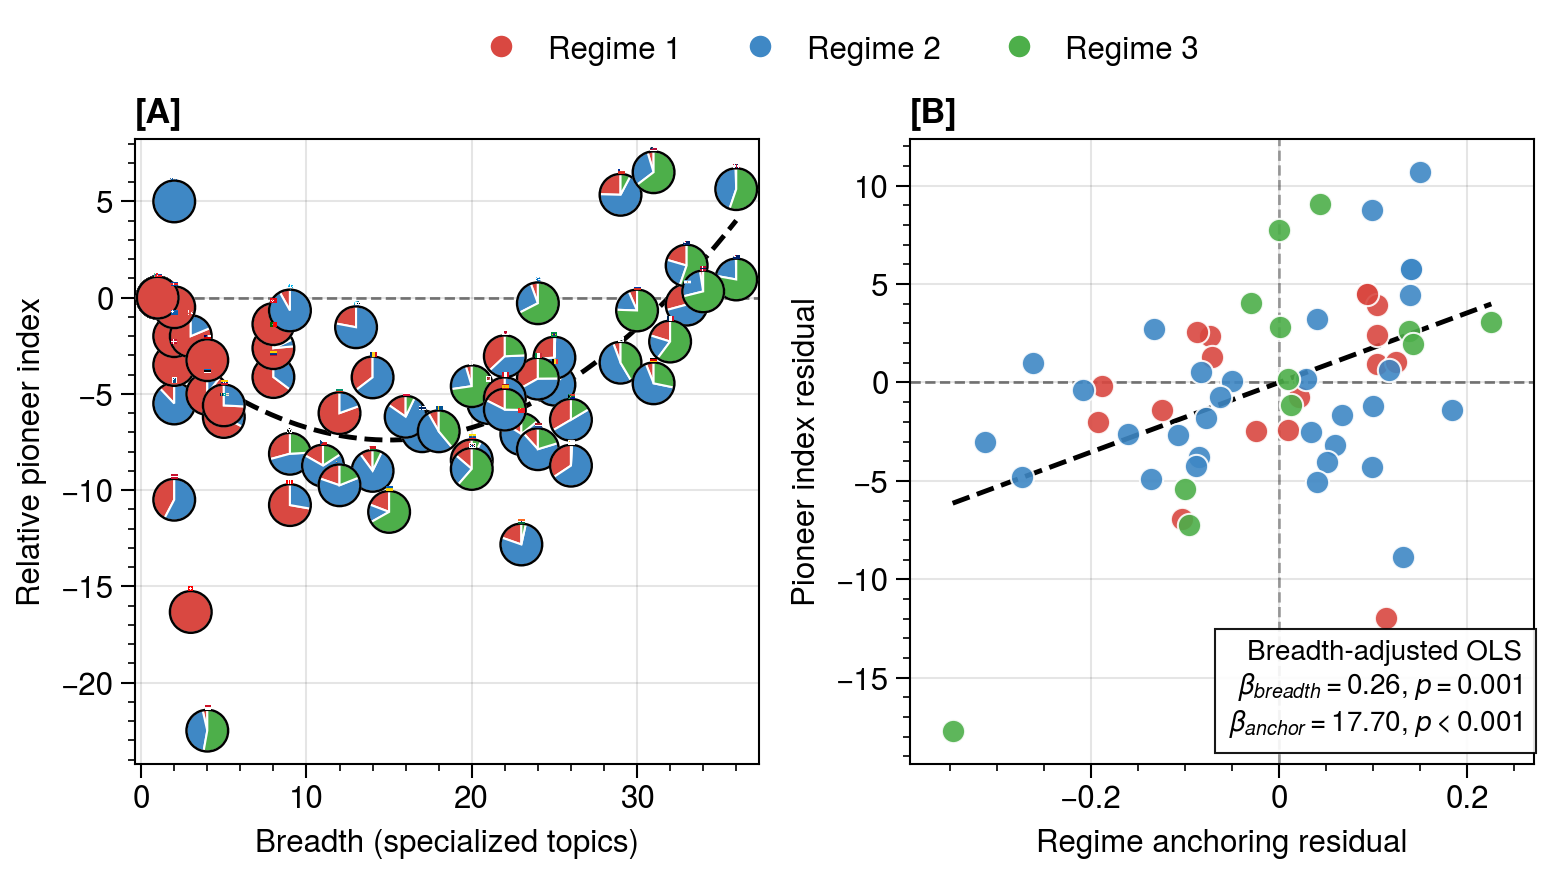
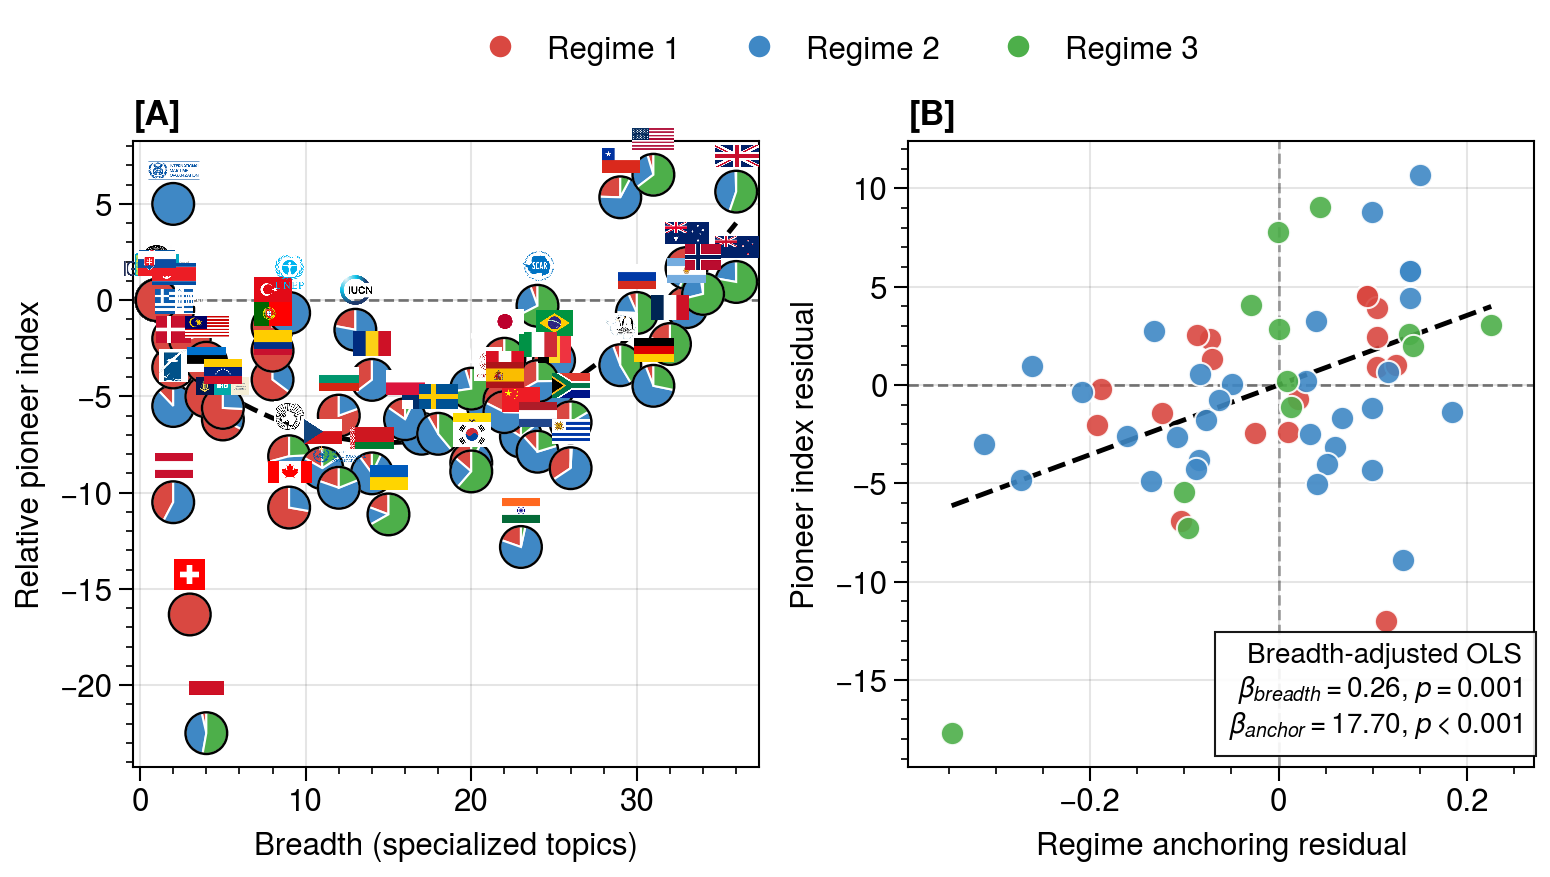
Tighten regime results and add appendix figures

diff --git a/theSpaceOfConcerns.tex b/theSpaceOfConcerns.tex
@@ -43,12 +43,12 @@
   }
 }
 \newcommand{\significancetext}{%
-Consensus can make governance look uniform even when actor strategies diverge. Across six decades of Antarctic Treaty submissions, we recover a shared space of concerns that reveals three recurring engagement regimes and shows that actors expand locally from anchored portfolio positions rather than governing uniformly. A simple sequential model reproduces these sparse, path-dependent portfolio dynamics, making hidden strategic pressure visible inside a formally unanimous institution. The result is a concrete way to study how consensus systems absorb conflict before it becomes explicit.
+Consensus can make governance look uniform even when actors occupy distinct positions beneath unanimous outcomes. Across six decades of Antarctic Treaty submissions, we recover three recurring engagement regimes, show that actors usually bridge adjacent rather than distant regions, and find that agenda growth is local and path dependent. The ATS therefore appears not as a homogeneous forum or a clean division-of-labor system, but as a shared arena with structured positions and selective complementarity. This makes hidden strategic pressure visible inside a formally unanimous institution.
 }
 
 \begin{document}
 \begin{abstract}
-    Consensus institutions can hide strategic differentiation because formal unanimity obscures disagreement in official outcomes. Using six decades of Antarctic Treaty submissions, we infer actor-level activity fingerprints from revealed topic priorities and build a ``space of concerns'' in which institution-defined topics are linked when actors recurrently co-specialize in them. The resulting topology organizes actors into three recurring engagement regimes. Portfolio change is local and path dependent: adoption odds decline with concern-space distance, regime shifts are mostly within or adjacent, and early agenda entry is associated with both broader portfolios and stronger anchoring within one regime rather than with membership in any single regime. A simple retain-and-enter mechanism, conditioned on the observed active actors, budgets, and pooled concern space, closely reproduces mean breadth, topic popularity, and local entry patterns. The space of concerns thus provides a behavioral map of how consensus governance organizes and absorbs strategic pressure.
+    Consensus institutions can hide strategic differentiation because formal unanimity obscures disagreement in official outcomes. Using six decades of Antarctic Treaty submissions, we infer actor-level activity fingerprints from revealed topic priorities and build a ``space of concerns'' in which institution-defined topics are linked when actors recurrently co-specialize in them. The resulting topology supports a minimum adequate three-regime summary. Actors frequently span adjacent regimes but effectively never bridge the two extremes directly without passing through the middle. Portfolio change is local and path dependent: adoption odds decline with concern-space distance, regime shifts are mostly within or adjacent, and early agenda entry is associated with both broader portfolios and stronger anchoring within one regime rather than with membership in any single regime. Among strongly anchored actors, some regime combinations---especially across the Regime 1--3 boundary---are more complementary than redundant, even though the system retains a substantial shared core. A simple retain-and-enter mechanism, conditioned on the observed active actors, budgets, and pooled concern space, closely reproduces mean breadth, topic popularity, and local entry patterns. The ATS therefore appears neither uniformly governed nor cleanly partitioned, but as a shared arena with structured positions, local movement, and selective complementarity.
 \end{abstract}
 
 \begin{strip}
@@ -105,15 +105,17 @@ Bridge topics structure movement between core and periphery. Inspections functio
 
 
 \subsection{Modes of Engagement and Actor Strategies}
-The Space of Concerns reveals how members allocate attention across issues and how they position themselves in ATS governance. As shown in \cref{fig:portfolio_space_ridgelines}, attention is uneven: countries concentrate in distinct parts of the issue space, and those clusters define three broad engagement regimes. Importantly, the 1D MDS axis is an embedding for visualization rather than a uniform metric ruler: local neighborhood structure is preserved approximately, but dense portions of the network appear compressed while sparse portions are expanded.
+The Space of Concerns reveals how members allocate attention across issues and how they position themselves in ATS governance. As shown in \cref{fig:portfolio_space_ridgelines}, attention is uneven: countries concentrate in distinct parts of the issue space, and those clusters define three broad engagement regimes. We treat three regimes as the minimum adequate summary of the ordered concern space rather than as an arbitrary clustering choice (Appendix \cref{fig:regime-k-validation}). Importantly, the 1D MDS axis is an embedding for visualization rather than a uniform metric ruler: local neighborhood structure is preserved approximately, but dense portions of the network appear compressed while sparse portions are expanded.
 
-Taken together, the regimes form a gradient rather than isolated silos. Regime 1 (institutional coordination and information exchange) emphasizes opening statements, science and education, information exchange, and ATS reporting and operational topics. Regime 2 (compliance and environmental management) centers on environmental protection, EIA, liability, waste and pollution, legal-institutional matters, inspections, and protected-area governance. Regime 3 (frontier impacts, resources, and strategic planning) concentrates on drilling, mineral resources, tourism pressure, SAER/environmental domains, marine acoustics, sub-glacial lakes, CEP strategy, and multiyear planning, where scientific capability, environmental risk, and long-horizon positioning intersect.
+Taken together, the regimes form a gradient rather than isolated silos. Regime 1 (institutional coordination and information exchange) emphasizes opening statements, science and education, information exchange, and ATS reporting and operational topics. Regime 2 (compliance and environmental management) centers on environmental protection, EIA, liability, waste and pollution, legal-institutional matters, inspections, and protected-area governance. Regime 3 (frontier impacts, resources, and strategic planning) concentrates on drilling, mineral resources, tourism pressure, SAER/environmental domains, marine acoustics, sub-glacial lakes, CEP strategy, and multiyear planning, where scientific capability, environmental risk, and long-horizon positioning intersect. The full topic-to-regime assignment is reported in Appendix Table~\ref{tab:regime_topics_full}.
 
 These regimes capture dominant orientations, not fixed blocs. Members most strongly aligned with Regime 1 include Switzerland, Malaysia, Estonia, and Bulgaria; with Regime 2, UNEP, COMNAP, Belarus, and IUCN; and with Regime 3, the Russian Federation, the United States, New Zealand, and Australia (Appendix Table~\ref{tab:regime_alignment_full}). Some countries remain tightly concentrated in one region, while others maintain mixed portfolios across neighboring regions, separating structural position from strategic flexibility as agendas shift.
 
 Australia illustrates this distinction: although its portfolio spans all three regions, its center of gravity remains in Regime 3 (share $=0.553$), indicating a diversified but not genuinely between-regime position (Appendix Table~\ref{tab:regime_alignment_full}).
 
-Supplementary co-sponsorship and competition views are consistent with this regime picture. Actor communities concentrate unevenly across the same concern regions, and topic-level concentration remains stable even as participation expands, indicating layered rather than homogenizing growth in agenda engagement (Appendix \cref{fig:actors_on_space,fig:competition-appendix}).
+A fuzzy-threshold view confirms that these are adjacent occupancy zones rather than rigid classes: actors commonly span Regime 1+2 or Regime 2+3, only one actor spans all three regions at the chosen threshold, and no actor spans Regime 1+3 without also passing through Regime 2 (Appendix \cref{fig:fuzzy-regime-classes}). The regimes are also historically ordered in the archive itself. Regime 1 actors are later and shorter-tenure on average, Regime 2 actors are intermediate, and Regime 3 actors are the earliest and longest-running participants (Appendix \cref{fig:regime-tenure}).
+
+These positions overlap with, but are not reducible to, collaboration or broad geopolitical grouping. Co-sponsorship communities concentrate unevenly across the same concern regions, and country pairs that co-submit more often also show greater portfolio overlap, but simple geodesic proximity does not recover the same structure and EU/NATO pairings are not unusually similar; BRICS alignment is positive but small-sample and therefore exploratory (Appendix \cref{fig:actors_on_space,fig:portfolio-share-collaboration,fig:geo-portfolio-overlap,fig:bloc-overlap}). At the same time, the regime structure is not only redundant. Among strongly anchored actors, hard Regime 1--3 pairs cover more distinct topics and show less internal overlap than size-matched baselines, and this pattern survives a fuzzy-class check in which adjacent bridge actors are separated out: pure 1--3 and 1+2--3 pairings remain the clearest complementary combinations, whereas 2--2 and 1+2--2 pairings are more redundant (Appendix \cref{fig:fuzzy-pair-coverage,fig:regime-pair-institutional}).
 
 \subsection{Growth of Interest Portfolios is not Random Drift but Local Movement in the Concern Space}
 The regime map above is descriptive; the hazard model tests whether movement through this space is structured. We find a strong locality gradient: in the pooled specification, adoption odds fall as concern-space distance increases ($\beta_{\mathrm{distance}}=-0.652$, odds ratio $=0.52$). The empirical adoption curve in \cref{fig:hazard-distance-timeseries} shows the same pattern nonparametrically, with adoption declining from 8.43\% in the nearest distance quartile to 0.79\% in the farthest quartile. The distance effect remains negative under alternative space constructions (instantaneous: $-0.539$; cumulative-lagged: $-0.533$; Appendix \cref{fig:hazard-space-sensitivity}). Consistent with this locality, dominant-regime assignments are highly persistent in rolling 5-year windows: 82.0\% of member transitions remain in the same regime, 99.0\% remain in the same or an adjacent regime, and direct Regime 1$\leftrightarrow$Regime 3 jumps are rare (1.0\%). A direct 1-year versus 5-year comparison (Appendix \cref{fig:regime-window-sensitivity}) shows the expected smoothing: same-regime persistence rises from 58.6\% to 82.0\%, while direct Regime 1$\leftrightarrow$Regime 3 jumps fall from 2.7\% to 1.0\%. Together, these results support interpreting engagement modes as path-dependent orientations rather than static labels, because actors tend to extend portfolios into nearby concerns rather than making long-range jumps.
@@ -139,7 +141,7 @@ The hazard results establish local movement, but they do not show whether that m
 
 
 \subsubsection{Agenda Pioneering Reflects Breadth and Regime Anchoring}
-Early agenda entry is not concentrated in one dominant regime. Actors from all three regimes appear among the pioneers, but earlier movers tend to combine broader portfolios with stronger concentration within one regime rather than evenly mixed portfolios. A simple OLS using the relative pioneer index as the outcome shows that breadth and max regime share are both positive predictors of earlier entry ($\beta_{\mathrm{breadth}}=0.26$, $p=0.001$; $\beta_{\mathrm{anchor}}=17.70$, $p<0.001$), while dominant-regime indicators are not distinguishable from zero. This pattern is stable to alternative cumulative-volume thresholds for defining topic emergence (Appendix \cref{fig:emergence-threshold-sensitivity}). Pioneering therefore appears less as membership in one privileged bloc than as regime-positioned timing from a clear portfolio base.
+Early agenda entry is not concentrated in one dominant regime. As shown in \cref{fig:pioneer_plot}, actors from all three regimes appear among the pioneers, but earlier movers tend to combine broader portfolios with stronger concentration within one regime rather than evenly mixed portfolios. A simple OLS using the relative pioneer index as the outcome shows that breadth and max regime share are both positive predictors of earlier entry ($\beta_{\mathrm{breadth}}=0.26$, $p=0.001$; $\beta_{\mathrm{anchor}}=17.70$, $p<0.001$), while dominant-regime indicators are not distinguishable from zero. This pattern is stable to alternative cumulative-volume thresholds for defining topic emergence (Appendix \cref{fig:emergence-threshold-sensitivity}). Pioneering therefore appears less as membership in one privileged bloc than as regime-positioned timing from a clear portfolio base.
 
 \begin{figure*}[!htbp]
     \centering \includegraphics[width = \textwidth]{./figures/fig05_pioneer_regime_position.pdf}
@@ -154,7 +156,11 @@ This contribution complements, rather than replaces, existing social-science app
 
 Substantively, the ATS appears as a structured concern space organized around a dense procedural--environmental hub, with more specialized but still connected regions around extraction and science, tourism and visitation, and coordination. This topology does not imply a detached extraction arena; rather, it is consistent with an institutional setting in which historically contentious issues, especially resource extraction, are tightly constrained and therefore remain embedded in adjacent procedural, scientific, and environmental pathways. That reading is consistent with current scholarship on dual-use pressures in Antarctica and the persistence of geopolitical tension under a formally cooperative regime \cite{Brady2017,DoddsBoulegue2023,Aus2025,Szpak2025}.
 
-The temporal results strengthen this interpretation. New attention does not diffuse randomly; it tends to move locally in the concern space, and actor trajectories cluster into a small number of recurrent engagement regimes. This indicates structured adaptation rather than drift. In practical terms, change in the ATS is more likely to appear as recombination of adjacent concerns than as abrupt displacement to distant issues. The regime diagnostics do not imply hard blocs, but they do support a stable and policy-interpretable three-regime summary for the present data. The mechanism check reported in the Results is consistent with this reading: ATS portfolios are better described by selective persistence and local expansion within a shared issue arena than by smooth diffusion across the full topology.
+The temporal results strengthen this interpretation. New attention does not diffuse randomly; it tends to move locally in the concern space, and actor trajectories cluster into a small number of recurrent engagement regimes. This indicates structured adaptation rather than drift. In practical terms, change in the ATS is more likely to appear as recombination of adjacent concerns than as abrupt displacement to distant issues. The regime diagnostics do not imply hard blocs, but they do support a stable and policy-interpretable three-regime summary for the present data. The fuzzy occupancy check sharpens this point: actors frequently bridge adjacent regimes, but effectively never span Regime 1 and Regime 3 directly without also occupying Regime 2. The mechanism check reported in the Results is consistent with this reading: ATS portfolios are better described by selective persistence and local expansion within a shared issue arena than by smooth diffusion across the full topology.
+
+The same regime geometry also clarifies what this paper does and does not mean by division of labor. The ATS does not look like a fully partitioned system in which actors simply split the agenda into non-overlapping domains. The shared procedural--environmental core remains substantial. But neither is the system merely redundant. Once actors are conditioned on strong regime anchoring, some pairings become more complementary than others. In particular, the clearest complementarity appears across the Regime 1--3 boundary: those pairs cover more distinct topics and overlap less than expected, and the effect survives a fuzzy-class sensitivity check that separates pure anchors from adjacent bridge actors. The accompanying institutional profile indicates that these complementary pairs are more often mixed CP/NCP, gateway-linked, and claimant-linked than expected, but the claimant enrichment should be read together with tenure: the effect is largely carried by long-established Regime 3 anchors rather than by claimant status alone (Appendix \cref{fig:fuzzy-pair-coverage,fig:regime-pair-institutional,fig:regime-tenure}). This is therefore better understood as selective complementarity inside a shared arena than as a global division-of-labor equilibrium.
+
+At the same time, the retain-and-enter model should be read at the level it was designed to address. It captures average breadth, average topic popularity, local entry, and period-to-period stability better than it captures the exact realized actor-topic support in any one period. That limitation is substantively useful rather than merely technical. It suggests that this paper identifies the broad geometry of ATS attention and the main local growth rules, but not yet the finer-grained forces that determine why actors occupying the same formal consensus regime still choose different issue bundles and timings. That residual variation is the natural entry point for a next step on \emph{apparent consensus}: explaining how formally unanimous outcomes can coexist with persistent strategic differentiation inside a shared concern space.
 
 These findings also sharpen how consensus stability should be interpreted. Relative institutional stability does not imply absence of strategic pressure; it can reflect effective filtering of disagreement into recurrent issue pathways with stable boundary zones \cite{CCAMLRConsensus2022,Gardiner2025}. Influence in such systems is therefore expressed through portfolio positioning and timing of entry into gateway concerns, not only through activity volume or economic size.
 
@@ -215,6 +221,29 @@ Colombia & 0.647 & Chile & 0.677 & Monaco\textsuperscript{\dag} & 0.528 \\
 \end{tabular}
 \end{table*}
 
+\begin{table*}[!htbp]
+\centering
+\scriptsize
+\caption{\textbf{Topic assignments for the three concern-space regimes.} Topics are listed in their 1D concern-space order and assigned to the regime defined by the nearest weighted center of aggregate excess engagement, after smoothing the aggregate $(\rho-1)_+$ signal across the ordered space.}
+\label{tab:regime_topics_full}
+\begin{tabular}{p{0.31\textwidth} p{0.33\textwidth} p{0.31\textwidth}}
+\hline
+\textbf{Regime 1: institutional coordination and information exchange} & \textbf{Regime 2: compliance and environmental management} & \textbf{Regime 3: frontier impacts, resources, and strategic planning} \\
+\hline
+Educational issues; Science issues; Opening statements; Exchange of Information; Operation of the Antarctic Treaty system -- The Secretariat; Operation of the Antarctic Treaty system -- General; Environmental Monitoring and Reporting; Operation of the Antarctic Treaty system -- Reports; Operational issues. &
+Safety and Operations in Antarctica; Environmental Impact Assessment -- Other EIA Matters; Environmental Protection -- General; Biological Prospecting; Comprehensive Environmental Evaluations; International Polar Year; Fauna and Flora -- General; Cooperation with Other Organisations; Management Plans; Inspections; Liability; Nonnative Species and Quarantine; Waste management and disposal; Climate Change; Prevention of marine pollution; Institutional and legal matters; Marine Protected Areas; Emergency report and contingency planning; Repair and remediation of environmental damage; Historic Sites and Monuments; Area Protection and Management Plans -- General. &
+Mineral resources; Human Footprint and wilderness values; CEP Strategy Discussions; Search and Rescue; Site Guidelines for Visitors; Marine living resources; Specially Protected Species; Tourism and NG Activities; Drilling; Operation of the CEP; Multiyear strategic workplan; Marine Acoustics; Sub-glacial Lakes; State of the Antarctic Environment Report (SAER); Environmental Domains Analysis. \\
+\hline
+\end{tabular}
+\end{table*}
+
+\begin{figure*}[!htbp]
+\centering
+\includegraphics[width=\textwidth]{./figures/fig21_regime_portfolio_validation.pdf}
+\caption{\textbf{Why three regimes? Portfolio-grounded validation of the concern-space partition.} (A) Weighted within-region inertia under the same snapped weighted-center partition rule used in the main analysis. The large drop from $k=2$ to $k=3$ marks the first clear elbow. (B) Portfolio-similarity preservation: for each $k$, actor portfolios are compressed to $k$ regime shares and the resulting pairwise actor-similarity matrix is compared with the full excess-specialization similarity matrix. The jump from $k=2$ to $k=3$ is large, while later gains are modest. (C) Increasing $k$ weakens regime anchoring and quickly produces very small regions. We therefore interpret $k=3$ as the minimum adequate partition: it captures the main portfolio structure while keeping the regime summary policy-interpretable.}
+\label{fig:regime-k-validation}
+\end{figure*}
+
 \section{Methods and Data}
 \subsection{Data Description and Processing}
 We analyze working papers and information documents submitted to the Antarctic Treaty System (ATS) from 1961 to 2025. The corpus was compiled from the official ATS document archive and enriched with thematic labels, submitting parties, and document types \cite{AntarcticTreatyHandbook,Yaryab2024}. Documents submitted by the ATS Secretariat were retained for completeness.
@@ -263,7 +292,7 @@ Let $x(a,i)$ denote the number of submissions by actor $a$ on topic $i$, where a
 and the system-wide importance of topic $i$ as
 
 \begin{equation}\label{eq:topic_importance}
-Z_i = \frac{\sum_c x(c,i)}{\sum_{c,j} x(c,j)}.
+Z_i = \frac{\sum_c x(c,i)}{\sum_{d,j} x(d,j)}.
 \end{equation}
 
 The Revealed Policy Advantage (RPA; an RCA-style specialization index) is then
@@ -275,7 +304,7 @@ Topics are linked by proximity
 \begin{equation}\label{eq:proximity}
 \phi(i,j)
 =
-\min\!\left\{
+\min_a\!\left\{
 \begin{aligned}
 &\Pr\!\bigl(\rho(a,i) > 1 \mid \rho(a,j) > 1\bigr),\\
 &\Pr\!\bigl(\rho(a,j) > 1 \mid \rho(a,i) > 1\bigr)
@@ -292,6 +321,32 @@ This adapts the product-space proximity logic from economic complexity to govern
 \caption{\textbf{Full ribbon view of RPA-specialized topic supports across adjacent periods.} Topics are held in fixed rows across time windows. For each adjacent period pair, a country contributes to every topic pair in which it has RPA $> 1$ at both ends, and each country's total contribution is weighted to sum to one within that period transition. Ribbon width therefore reflects aggregated country support across all specialized topic-to-topic continuities and shifts, rather than static proximity magnitude. The view complements the filtered main-text ribbon by showing the full set of RPA-qualified supports.}
 \label{fig:space-ribbon-full}
 \end{figure*}
+
+\subsection{Constructing Regimes from the Concern Space}
+The three engagement regimes in the main text are not obtained by clustering actors directly. Instead, they are defined as contiguous regions of the recovered topic space and actors are then assigned by how much of their excess portfolio mass falls into each region. This choice is deliberate: the substantive object of interest is movement and positioning \emph{within} a shared concern space, so the regimes should respect that geometry rather than grouping actors by similarity alone.
+
+We begin from the full actor-topic specialization matrix, not from an already aggregated topic profile. The aggregate proximity matrix $\phi$ in \cref{eq:proximity} is first constructed from repeated co-specialization across actors, so actor-level differences enter the regime procedure initially through the concern-space geometry itself. We then convert $\phi$ into a weighted distance graph by assigning each positive edge the length
+\begin{equation}
+    d(i,j) = -\log\!\bigl(\max\{\phi(i,j), \varepsilon\}\bigr),
+\end{equation}
+with a small $\varepsilon>0$ to avoid taking logs of zero. We then compute all-pairs shortest-path distances on this topic graph and obtain a one-dimensional coordinate for each topic by classical multidimensional scaling (MDS). The resulting axis is used only as an ordered embedding: it provides a consistent left-to-right representation of the concern space, but it is not interpreted as a literal Euclidean policy spectrum.
+
+To identify broad regions on this ordered space, we aggregate excess specialization across actors using
+\begin{equation}
+    g_i = \sum_a \max\{\rho(a,i)-1,0\},
+\end{equation}
+where $g_i$ is large when many actors place disproportionate attention on topic $i$. This aggregate signal is introduced only \emph{after} the concern-space axis has been constructed. The regime fit itself is then performed on topic positions in the 1D embedding, not on actor observations directly. In the weighted specification used in the paper, we smooth $g_i$ over the 1D ordering with a short Gaussian kernel and locate $R=3$ region centers by an iterative 1D assignment-and-update step. Starting from three evenly spaced initial centers, each topic is assigned to its nearest center in the 1D embedding and each center is updated to the \emph{weighted} mean position of the topics currently assigned to it, using the smoothed excess-engagement signal as the weight. After convergence, each center is snapped to the nearest observed topic, and the regime boundaries are taken as the midpoints between adjacent centers. An unweighted comparison therefore corresponds to the same 1D procedure with equal topic weights: the concern-space geometry remains actor-derived, but the partition itself is no longer pulled toward high-engagement parts of that space.
+
+This procedure yields three contiguous topic blocks on the ordered concern space. The regimes therefore summarize broad zones of issue concentration rather than unrestricted network communities. They are intentionally more structured than off-the-shelf actor clustering methods such as $k$-means, hierarchical clustering, or Leiden community detection, which can be useful descriptively but do not enforce the spatial contiguity needed for our interpretation of local movement and regime transitions. It is therefore useful to distinguish the two objects involved: the concern space itself is a topology of joint interest, whereas the weighted regime partition is an engagement summary of how actors occupy that topology. We selected $R=3$ as the minimum adequate partition rather than as a universal optimum. Appendix \cref{fig:regime-k-validation} reports two complementary checks using the same snapped weighted-center rule as the main analysis. First, weighted within-region inertia shows a clear elbow at $k=3$. Second, compressing actor portfolios to $k$-regime shares yields a large gain in preservation of pairwise actor similarity from $k=2$ to $k=3$, while additional regimes provide only modest improvement and rapidly create very small residual regions. We therefore treat three regimes as the smallest partition that captures the main portfolio geometry without over-fragmenting the concern space.
+
+Actors are then positioned relative to this fixed topic partition. For actor $a$, let $r(i)\in\{1,2,3\}$ denote the regime assigned to topic $i$. We compute regime weights from the same excess specialization signal,
+\begin{equation}
+    \omega_{ar}
+    =
+    \frac{\sum_{i:r(i)=r} \max\{\rho(a,i)-1,0\}}
+         {\sum_i \max\{\rho(a,i)-1,0\}},
+\end{equation}
+so that $\omega_{ar}$ is the share of actor $a$'s excess portfolio mass falling in regime $r$. The actor's dominant regime is the maximizer of $\omega_{ar}$, and the dominant-regime share $\max_r \omega_{ar}$ measures regime anchoring. This is the quantity used in the main-text discussion of strong aligners, mixed portfolios, and regime-persistence transitions. The complete topic-to-regime mapping is reported in Appendix Table~\ref{tab:regime_topics_full}.
 
 
 \subsection{Hazard Model for Local Topic Adoption}
@@ -460,6 +515,35 @@ Overall, the analysis highlights the asymmetric role of members in shaping the g
 \end{figure*}
 
 \section{Supplementary Results}
+\subsection*{Regime Occupancy and Complementarity}
+\begin{figure*}[!htbp]
+\centering
+\includegraphics[width=\textwidth]{./figures/fig33_fuzzy_regime_classes.pdf}
+\caption{\textbf{Fuzzy regime classes show adjacent bridging rather than arbitrary spanning.} Actors are assigned to all regimes for which their regime share exceeds 0.25. (A) Most actors are either anchored in one regime or bridge adjacent regimes (1+2 or 2+3). No actor occupies Regime 1 and Regime 3 without also occupying Regime 2. (B) Boundary-spanning classes are broader on average than pure anchors, but remain structured rather than fully diffuse.}
+\label{fig:fuzzy-regime-classes}
+\end{figure*}
+
+\begin{figure*}[!htbp]
+\centering
+\includegraphics[width=\textwidth]{./figures/fig35_regime_tenure.pdf}
+\caption{\textbf{Regime position is associated with actor tenure in the ATS archive.} Regime 1 actors are later entrants and active for fewer years on average, Regime 2 actors are intermediate, and Regime 3 actors are the earliest and longest-running participants. Points show actors; thick vertical bars show the interquartile range and median by dominant regime.}
+\label{fig:regime-tenure}
+\end{figure*}
+
+\begin{figure*}[!htbp]
+\centering
+\includegraphics[width=\textwidth]{./figures/fig34_fuzzy_pair_coverage_anchored.pdf}
+\caption{\textbf{Complementarity is concentrated on the 1--3 boundary and survives fuzzy regime definitions.} We restrict attention to strongly anchored actors and compare fuzzy regime pairings against size-matched baselines and regime-label permutations. Left: distinct-topic share, defined as $|\cup S_i|/\sum |S_i|$, where $S_i$ are the pair members' specialized topic sets. Right: internal pairwise overlap. Pure 1--3 and 1+2--3 pairs provide the clearest complementary coverage, whereas 2--2 and 1+2--2 pairs are more redundant. Stars show permutation significance and daggers/obelisks indicate direction relative to the size-matched null.}
+\label{fig:fuzzy-pair-coverage}
+\end{figure*}
+
+\begin{figure*}[!htbp]
+\centering
+\includegraphics[width=\textwidth]{./figures/fig32_regime_pair_institutional_profiles.pdf}
+\caption{\textbf{Complementary Regime 1--3 pairings are more ATS-native than generic geopolitical.} Left: strongly anchored Regime 1--3 pairs are enriched for mixed CP/NCP combinations, gateway-linked pairs, and pairs involving claimants, but not for same Leiden co-sponsorship community. Right: the actors carrying those pairings combine shorter-tenure Regime 1 members with long-established Regime 3 anchors, indicating that the claimant signal is largely a tenure-and-position effect rather than a standalone geopolitical bloc story. Stars show permutation significance for the left-panel attribute contrasts.}
+\label{fig:regime-pair-institutional}
+\end{figure*}
+
 \subsection*{Co-sponsorship clusters}
 \begin{figure*}[!htbp]
     \centering
@@ -472,13 +556,29 @@ Mapping actors onto this terrain (\cref{fig:actors_on_space}) shows clustered, a
 
 Panel C embeds these communities into the main concern-space layout used in the paper, making clear that co-sponsorship structure overlaps with, but does not replace, the regime structure. Panel D tracks the dominant specialized community by topic over time. The main pattern is layered rather than segmented: one community remains broadly present across core governance topics, while the others dominate intermittently in narrower coordination and procedural niches.
 
+\begin{figure*}[!htbp]
+\centering
+\includegraphics[width=\textwidth]{./figures/fig18_collaboration_portfolio_overlap.pdf}
+\caption{\textbf{Collaborating country pairs that co-submit more often also hold more similar portfolios.} Panels A and B show raw pair-period observations for collaborating country pairs within non-overlapping 10-year ATS periods; the x-axis counts co-submitted papers in that period (displayed on a $\log(1+x)$ scale) and the y-axis reports Jaccard overlap between their topic portfolios. Panel A uses specialized support (RPA $> 1$); panel B uses any observed activity. Panel C pools the full archive at the country-pair level. Colored lines trace median overlap across positive-collaboration bins. More frequent collaboration is associated with greater portfolio overlap in both definitions, but the relationship remains moderate rather than deterministic, reinforcing that co-sponsorship structure overlaps with, but does not substitute for, the concern-space and regime structure.}
+\label{fig:portfolio-share-collaboration}
+\end{figure*}
+
+This pair-level association is exactly what we would expect if co-sponsorship partly tracks shared concern positions. At the same time, it does not collapse the concern-space result into a simple collaboration network: even among collaborating pairs, overlap varies substantially, and repeated co-submission is far from a deterministic proxy for concern-space similarity. Co-sponsorship therefore provides a useful adjacent view of ATS coordination, but it does not replace the issue-space perspective developed in the main text.
+
+Simple external correlates do less explanatory work. Geographic distance shows no clear negative overlap gradient, EU and NATO pairings are not unusually aligned under permutation, and only BRICS pairs show a positive signal---but on a much smaller ATS sample. These checks therefore point back toward ATS-native positioning rather than broad geography or bloc politics as the more informative lens (\cref{fig:geo-portfolio-overlap,fig:bloc-overlap}).
+
 \begin{figure}[!ht]
 \centering
-\includegraphics[width=0.45\textwidth]{./figures/fig17_topic_competition_concentration.pdf}
-\caption{\textbf{Topic competition and concentration over time.}
-\textbf{Top panel}: Mean Gini coefficient across all topics remains stable around 0.25--0.30 throughout the period, indicating persistent inequality in RPA distributions despite expanding participation.
-\textbf{Heatmap}: Fraction of members with RPA $\geq$ 1 for each topic (rows) over time (columns), ordered by hierarchical clustering to group topics with similar temporal dynamics. Color intensity indicates competition level (fraction of active members). The clustering reveals three distinct temporal patterns: (1) \emph{Top cluster}: Historic and administrative topics (sites and monuments, CEP strategy, secretariat operations, inspections) show sporadic, low-intensity engagement concentrated in specific periods; (2) \emph{Middle cluster}: Mixed procedural and environmental topics display moderate, patchy participation with variable temporal patterns; (3) \emph{Bottom cluster}: Core operational and governance topics (climate change, management plans, science issues, educational issues, general operations) show sustained, high-intensity competition (40--50\% of members) particularly from 2000 onward. Notable transient dynamics include the tourism spike in the 1990s. The combination of expanding participation (darker colors in recent years, especially in the bottom cluster) with stable Gini (top panel) demonstrates proportional expansion: new entrants join without disrupting existing hierarchies.}
-\label{fig:competition-appendix}
+\includegraphics[width=0.45\textwidth]{./figures/fig24_geography_portfolio_overlap.pdf}
+\caption{\textbf{Geographic proximity does not provide a simple explanation of portfolio overlap.} Each point is a sovereign-state pair in the aggregate archive. The x-axis reports great-circle distance between country representative points; the y-axis reports portfolio overlap under RPA $> 1$ (left) or any observed activity (right). The cloud shows no strong negative geographic gradient, indicating that simple state-to-state distance does not recover the concern-space alignment seen in the main text.}
+\label{fig:geo-portfolio-overlap}
+\end{figure}
+
+\begin{figure}[!ht]
+\centering
+\includegraphics[width=0.45\textwidth]{./figures/fig26_geopolitical_bloc_overlap.pdf}
+\caption{\textbf{Generic geopolitical blocs explain little of the regime structure.} Pairwise portfolio overlap is compared for country pairs that share EU, NATO, or BRICS membership versus all other sovereign-state pairs. EU and NATO pairings do not show unusually high overlap under permutation, whereas BRICS pairs do, but on a much smaller ATS sample. We therefore treat the BRICS signal as exploratory and conclude that broad geopolitical bloc membership is not the main organizer of ATS concern-space position.}
+\label{fig:bloc-overlap}
 \end{figure}
 
 \end{document}

diff --git a/fig05_pioneer_regime_position.py b/fig05_pioneer_regime_position.py
@@ -174,7 +174,7 @@ def draw_pie(ax, x, y, weights, radius_px=7):
     ab.set_in_layout(False)
 
 
-def draw_flag(ax, x, y, flag_img, y_offset_pts=6, zoom=0.013):
+def draw_flag(ax, x, y, flag_img, y_offset_pts=7, zoom=0.08):
     if flag_img is None:
         return
     box = OffsetImage(flag_img, zoom=zoom, cmap=None)